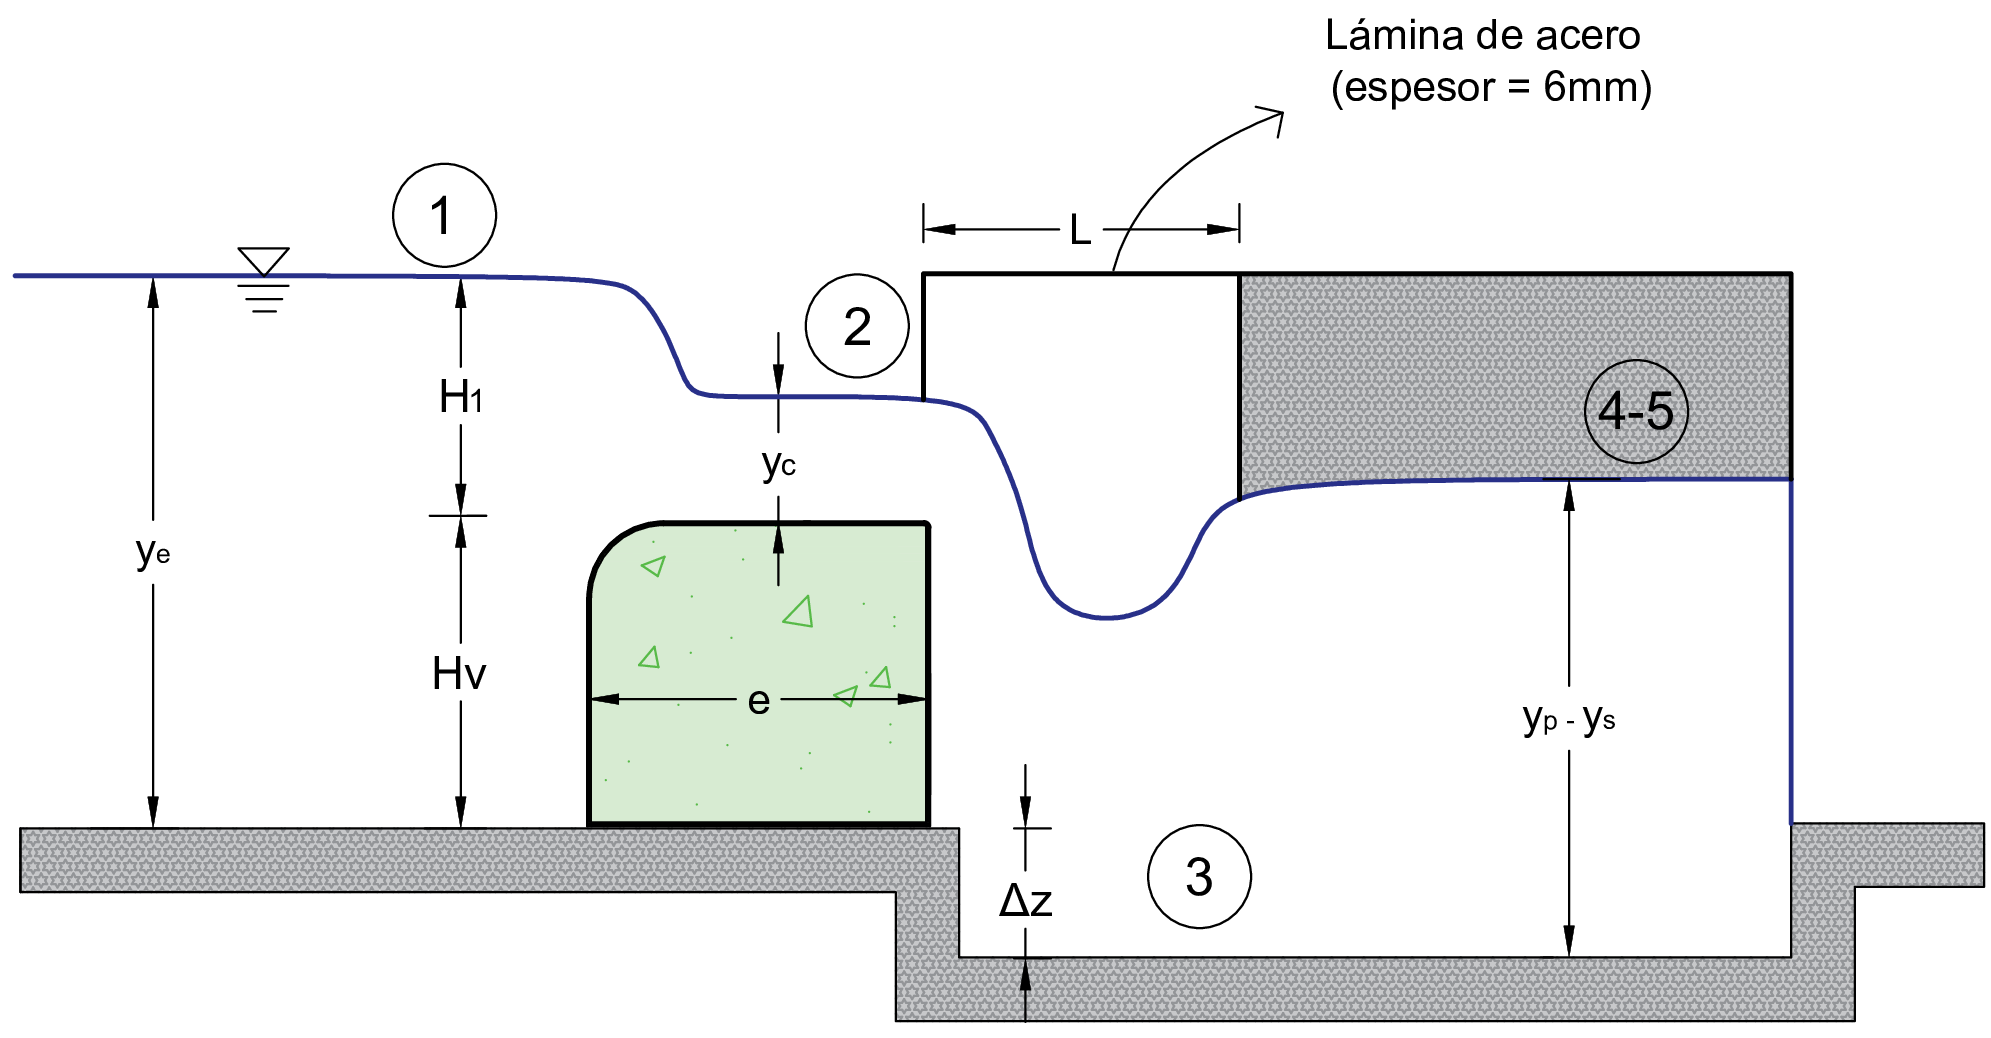
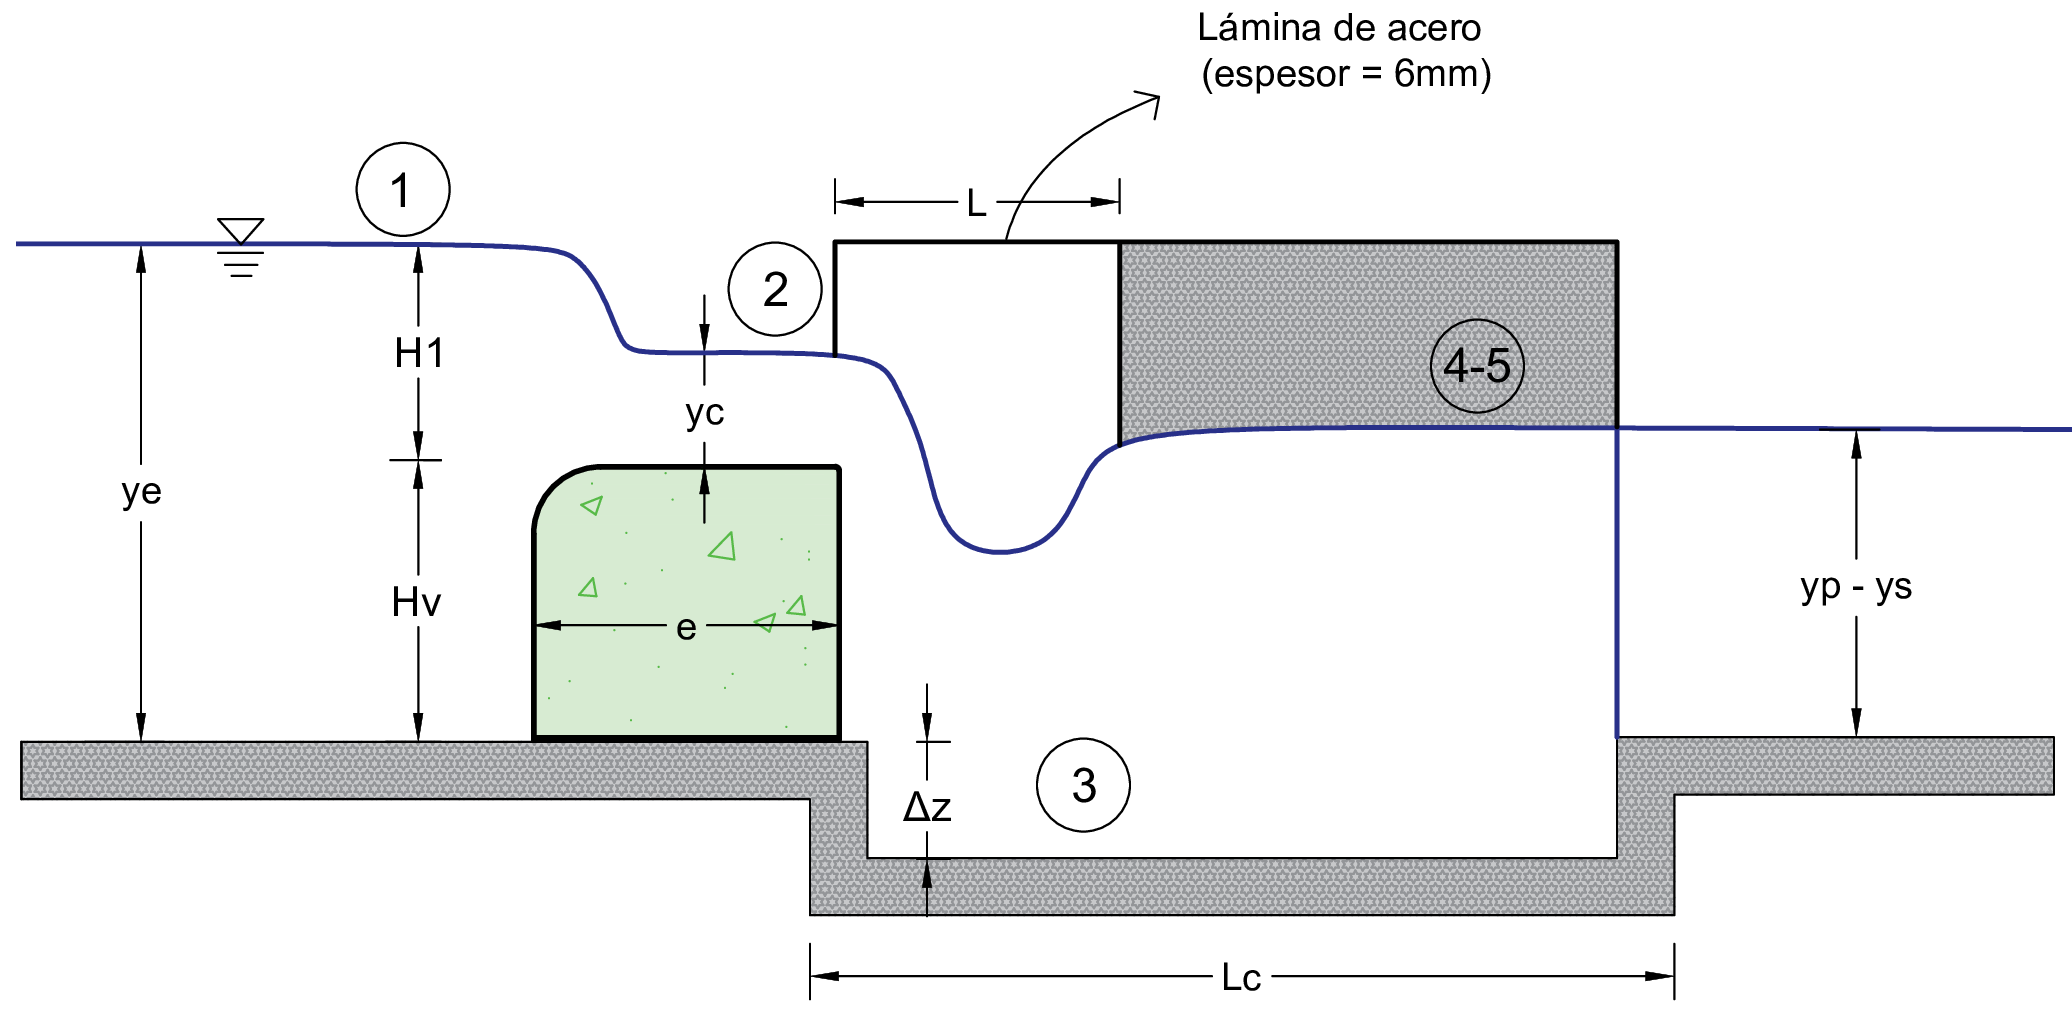
cambios visuales

diff --git a/project/templates/partidor.html b/project/templates/partidor.html
@@ -80,7 +80,7 @@
                                 </div>
                                 <div class="col-md-3">
                                     <div class="form-group">
-                                        <label class="small mb-1" for="base_entrante">Base del canal b (m)</label>
+                                        <label class="small mb-1" for="base_entrante">Base del canal be (m)</label>
                                         <input {% if history %} disabled {% endif %} {% if data %}
                                             value="{{data.base_entrante}}" {% endif %} required class="form-control"
                                             id="base_entrante" name="base_entrante" type="number" min="0.0001"
@@ -91,7 +91,7 @@
                                 </div>
                                 <div class="col-md-3">
                                     <div class="form-group">
-                                        <label class="small mb-1" for="tirante_entrante">Tirante y (m)</label>
+                                        <label class="small mb-1" for="tirante_entrante">Tirante ye (m)</label>
                                         <input {% if history %} disabled {% endif %} {% if data %}
                                             value="{{data.tirante_entrante}}" {% endif %} required class="form-control"
                                             id="tirante_entrante" name="tirante_entrante" type="number" min="0.0001"
@@ -428,7 +428,7 @@
                             <div class="col-md-3">
                                 <div class="form-group">
                                     <label for="longitud_lamina" class="small mb-1">
-                                        Longitud de la lámina Ll(m)
+                                        Longitud de la lámina L(m)
                                     </label>
                                     <input disabled name="longitud_lamina" id="longitud_lamina" class="form-control"
                                         value="{{resultados.longitud_lamina}}">
@@ -586,8 +586,8 @@
                                             Si H1/H3 < 0.8 <i class="fa fa-arrow-right" aria-hidden="true"></i>	Existe flujo libre en el canal saliente
                                         </li>
                                         <li>
-                                            Si Av < 0.3 <i class="fa fa-arrow-right" aria-hidden="true"></i> No es necesario determinar Lc y espesor del colchón amortiguador 
-                                            <!-- ya que Av es menor a 0.3 cm -->
+                                            Si Hv < 0.3 <i class="fa fa-arrow-right" aria-hidden="true"></i> No es necesario determinar Lc y espesor del colchón amortiguador 
+                                            <!-- ya que Hv es menor a 0.3 cm -->
 
                                         </li>
                                     </ul>

diff --git a/project/templates/base.html b/project/templates/base.html
@@ -128,7 +128,9 @@
                         <div>
                             <span>Desarrollado en colaboración </span>
                             &middot;
-                            <a href="https://github.com/cjcruzrivera?tab=repositories">cjcruzrivera</a>
+                            <a href="https://www.github.com/hidravp" target="_blank">HidraVP</a>
+                            &middot;
+                            <a href="https://github.com/cjcruzrivera" target="_blank">cjcruzrivera</a>
                         </div>
                     </div>
                 </div>
